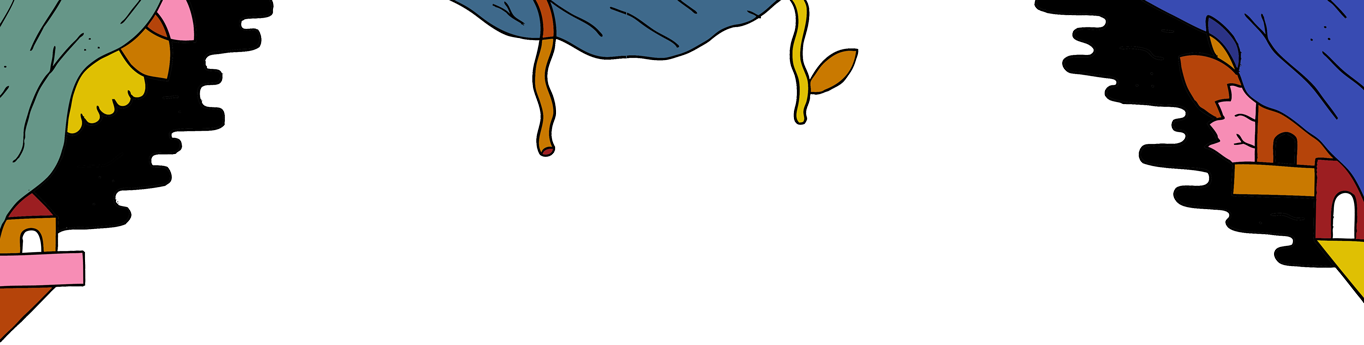
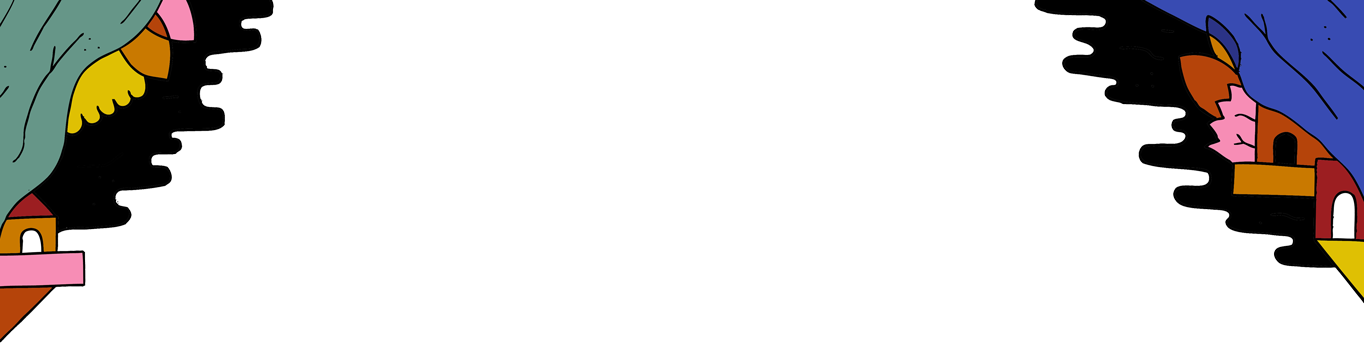
remove top header bits.

Changed region(s): [[0.3079, 0.0, 0.6466, 0.4638]]

diff --git a/sass/base/global.scss b/sass/base/global.scss
@@ -66,18 +66,12 @@ section {
     &#events, &#gallery, &#getinvolved {
         padding-top: 6vw;
     }
-    &:nth-of-type(1) {
-        padding-top: 10vw;
-        .tabs {
-            padding-top: 1.5em;
-        }
-        .tab {
+    &:nth-of-type(1) .tab {
             @include min-width(750px) {
             display: inline;
             margin-bottom: 0;
         }
     }
-}
     &:nth-child(odd) {
         background-color: $blue;
         color: $white;

diff --git a/sass/utilities/variables.scss b/sass/utilities/variables.scss
@@ -2,9 +2,14 @@ $baseline: 1.5rem;
 
 $primary: #232323;
 
-$yellow: #FFEFC5;
-$blue: #2E5066;
-$red: #B54414;
+$base-color1: #FFF9E8;
+$base-color2: #223C4D;
+$base-color3: #B54414;
+
+$yellow: $base-color1;
+$blue: $base-color2;
+$red: $base-color3;
+
 $white: lighten($blue, 60);
 $black: darken($blue, 35);
 
